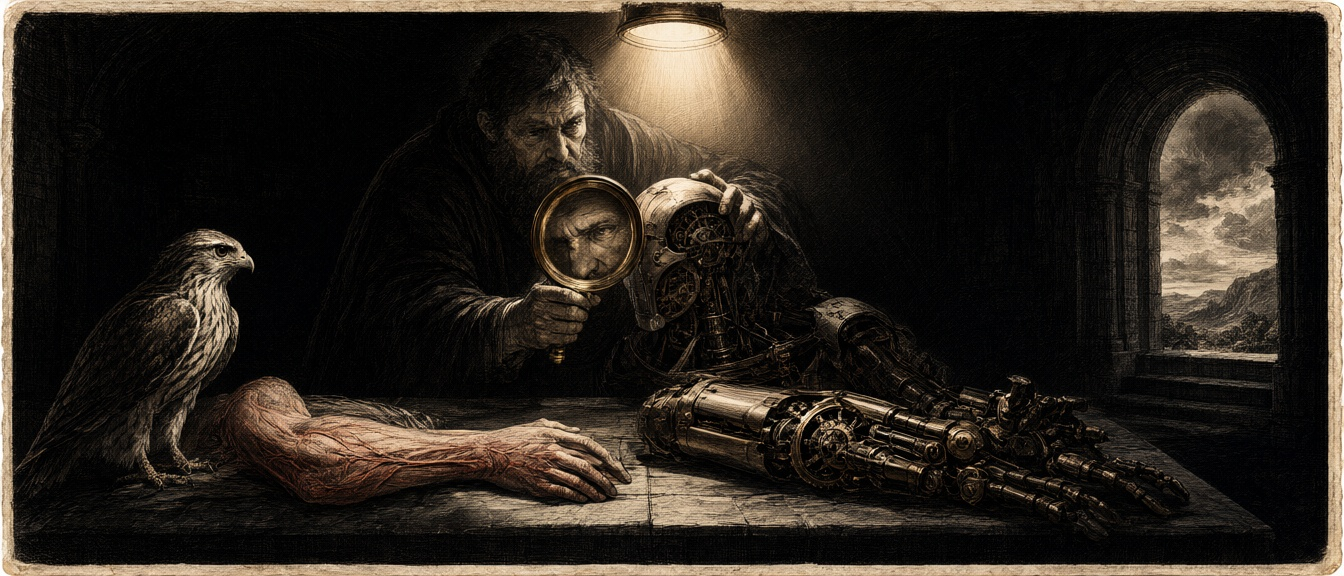
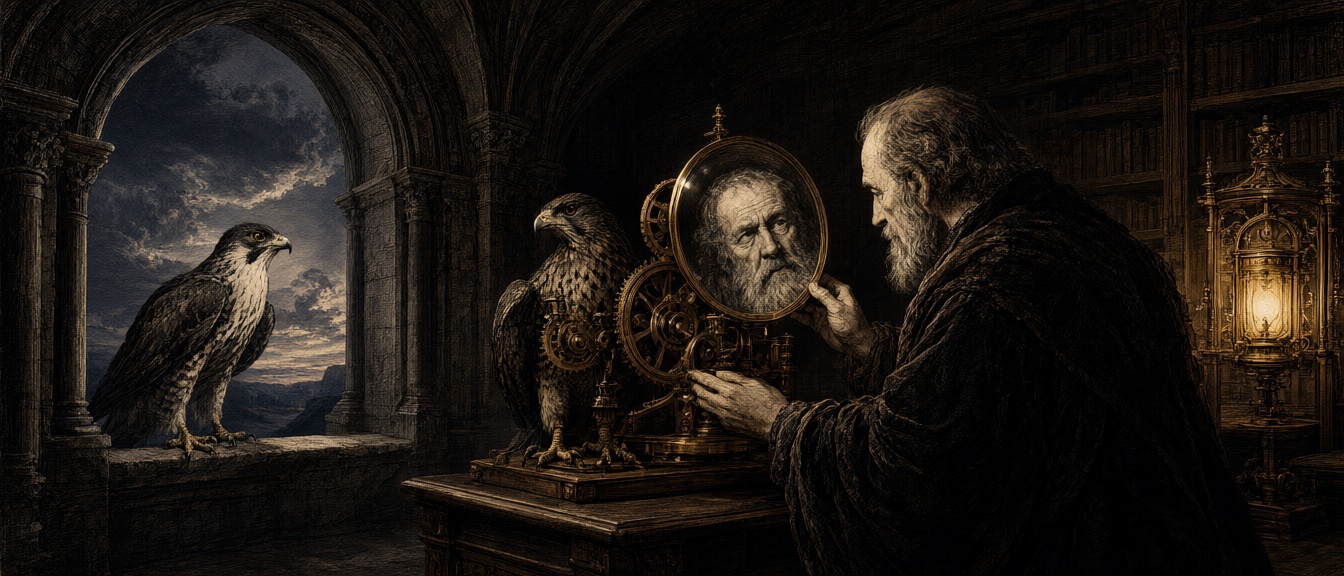
Update cover art for Post #355: Rembrandt Dutch Baroque etching of philosopher and clockwork falcon

diff --git a/assets/covers/STYLES.md b/assets/covers/STYLES.md
@@ -63,7 +63,7 @@ Grouped by look. One representative name; multiple slugs may share a family (avo
 
 | Family | Traits | Covers |
 |--------|--------|--------|
-| **Dutch Baroque chiaroscuro copperplate etching and drypoint on warm antique watermarked laid paper in the tradition of Rembrandt van Rijn's anatomical dissection plates** | Ultra-wide 21:9 full-bleed panoramic composition. High-contrast Dutch Baroque chiaroscuro copperplate etching and drypoint on warm antique watermarked laid paper in the tradition of Rembrandt van Rijn. In a dramatic shadow-drenched Renaissance anatomical amphitheater under a single concentrated overhead warm lantern beam, an open dissection table reveals two contrasting subjects: on the left, the living, muscular arm of a human alongside a living wild falcon, depicted with intricate biological vascular networks, flowing capillary pulses, and delicate feathered plumage radiating organic vital warmth; on the right, an articulated mechanical iron automaton arm with intricate exposed brass clockwork escapements, cold gears, and tension springs sits lifelessly on cold slate flagstones; leaning over the dissection table, a scholar in heavy academic robes holds a polished convex brass speculum mirror directly before the hollow iron visor of the automaton, projecting his own furrowed human gaze into the vacant metallic mask; perched at the edge of the table, the wild falcon sharply turns its head away toward an open stone lancet archway revealing wild storm clouds and distant mountain horizons, sovereignly withholding assent; deep velvety charcoal-black cross-hatching, luminous raking sepia lantern light, fine chain lines and rough deckle edge on heavy laid rag paper, tactile ink intaglio ridges, strictly no text, no letters, no words, no numbers, no logos (Qwen-Image-2.1 21:9) | `what-hinton-failed-to-understand` |
+| **Dutch Baroque chiaroscuro copperplate etching and drypoint on warm antique watermarked laid paper in the tradition of Rembrandt van Rijn** | Ultra-wide 21:9 full-bleed panoramic composition. High-contrast Dutch Baroque chiaroscuro copperplate etching and drypoint on warm antique watermarked laid paper in the tradition of Rembrandt van Rijn. In a dramatic vaulted Renaissance philosopher's library and stone observatory at twilight under a warm raking lantern beam: on the right, an elaborate Renaissance brass clockwork automaton falcon with exposed polished gears, escapement wheels, and winding arbors rests on a heavy oak scholar's desk; an elderly natural philosopher in heavy velvet robes holds a polished convex brass speculum mirror directly in front of the metallic automaton, and the curved mirror clearly reflects the philosopher's own furrowed, searching face and eyes, mistaking his own reflected consciousness for an awakening mind inside the mechanism; on the left, through a massive open Gothic stone archway opening out into dramatic twilight clouds and distant mountain horizons, a magnificent living wild falcon with vibrant natural plumage, sharp alert eyes, and breathing organic vitality perches freely on the weathered stone windowsill, turning its head sharply away toward the open sky and sovereignly withholding assent; rich chiaroscuro contrast between warm amber lantern light and cool twilight indigo, velvety charcoal-black cross-hatching, luminous drypoint plate tone, fine chain lines on heavy laid rag paper, tactile intaglio ink ridges, strictly no text, no letters, no words, no numbers, no logos, no severed limbs (Qwen-Image-2.1 21:9) | `what-hinton-failed-to-understand` |
 | **German Expressionist relief woodcut / linocut in chiaroscuro with raw chisel gouges and soot-black ink on fibrous Mulberry paper** | Ultra-wide 21:9 full-bleed composition. High-contrast German Expressionist relief woodcut print with raw angular chisel gouges and bold block-printed soot-black ink on rough fibrous deckle-edged paper. Dramatic composition contrasting two states: on the left, an artificial sterile bell-jar greenhouse with rigid geometric glass panes and fragile vertical support wires cradling a pale spindly sapling shielded from wind yet drooping under its own weight; on the right, an open storm-scoured mountain ridge where a muscular deeply-rooted young tree twists defiantly against violent mountain gales, its dense lignified trunk showing stress-hardened grain and roots clawing deep into raw granite bedrock under turbulent sweeping woodcut sky vortices; stark chiaroscuro of bone black, raw umber wood grain, and warm amber sap glints, rich relief printing texture with hand-carved gouge marks and wood grain striations, strictly no text, no letters, no words, no logos (Qwen-Image-2.1 21:9) | `the-unfrictioned-mind-and-borrowed-omnipotence` |
 | **Romanticist atmospheric oil painting of a Brocken Spectre and optical glory halo on coastal sea-fog at sunset, in the tradition of J.M.W. Turner and Caspar David Friedrich** | Ultra-wide 21:9 full-bleed panoramic landscape. Romanticist atmospheric oil painting in the fine-art tradition of J.M.W. Turner and Caspar David Friedrich, rendered with rich palette knife impasto, oil glaze luminosity, and physical sea-spray atmospheric diffusion. A wild, rugged coastal granite ridge at sunset, battered by crashing oceanic waves far below. In the foreground on the left, wet, weathered granite sea-cliffs with deep cracks and coastal moss catch intense fiery golden-amber raking light from a setting sun just beyond the frame. Across the center and right, billowing clouds of oceanic sea-fog and mist rise dynamically from the dark turquoise surf; slicing through the fog, a low-angle sunbeam projects a magnificent Brocken Spectre onto the swirling clouds—a soft, atmospheric diffuse optical shadow cast onto the mist, crowned by an iridescent circular glory halo of pale rainbow diffraction rings. Below, deep indigo and viridian oceanic waves churn with white foaming water against dark basalt sea-stacks, untamed and indifferent to the phantom in the sky. Rich chiaroscuro contrast between incandescent amber-gold sunset light and cool oceanic indigo-violet shadows, tactile canvas weave, textured paint layers, strictly no text, no letters, no words, no numbers, no logos (Qwen-Image-2.1 21:9) | `the-self-portrait-in-the-projection` |
 | **Luminous Japanese Shin-hanga woodblock print in radiant morning daylight on textured ivory washi** | Ultra-wide 21:9 full-bleed panoramic composition. Luminous Japanese Shin-hanga woodblock print in radiant morning daylight, printed with pure mineral pigments on textured ivory washi paper. An open, expansive horizon bathed in clear golden sunrise light and soft pale-cerulean sky; in the lower left, an ornate, rigid geometric measuring frame and bronze coin balance are partially dissolved in light morning mist and translucent watercolor washes; surging boldly across the center and dominating the frame with living vitality, a young wild tree with vibrant emerald leaves and delicate vermilion blossoms reaches upward into the brilliant sunlight, its roots gripping sunlit granite and warm earthen soil; warm golden backlighting, fine woodblock embossment, visible mulberry fiber texture, bright, airy, optimistic morning atmosphere, strictly no text, no letters, no words, no numbers, no logos (Qwen-Image-2.1 21:9) | `the-discount-on-agency` |
@@ -575,7 +575,7 @@ Grouped by look. One representative name; multiple slugs may share a family (avo
 | `the-receptionist-parable-and-the-causal-inversion-of-absence` | Casein tempera, drybrush gouache, and compressed charcoal on rough textured gesso board: monumental mid-century corporate lobby in stark geometric perspective with limestone pillars, vacant reception desk with unplugged handset and open blank ledger in raking morning sunlight, open exit doorway to sunlit avenue, three bureaucratic figures huddled over entangled blueprint in deep background shadow |
 | `the-capability-reversal-of-empathy-and-the-contest-of-boundaries` | Gothic stained glass lead-came mosaic (vitrail) with dark soldered lead cames on antique textured mouth-blown glass: two distinct radiant human silhouettes (amber-gold and sapphire-blue) across architectural void separated by an unyielding vertical lead came and hand-wrought iron armature, a faint translucent phantom projection attempting to pierce the barrier blurring into glass fractures and stress cracks, vivid unmixed amber and cobalt light pools cast on limestone floor |
 | `the-moral-reversal-and-the-scripted-subject` | Layered Victorian toy-theater proscenium, hand-colored lithographic pasteboard flats, and mechanical wire armatures in an optical shadow-box: ornate gilt-wood theatrical proscenium framing an artificially constructed geometric room, delicate hand-cut pasteboard female silhouette suspended from overhead brass wire armatures amidst looming chorus of monochrome male flats with dramatic footlight shadows, unmasking artisan's hands adjusting brass control rods and script ledger from the foreground auditorium |
-| `what-hinton-failed-to-understand` | Dutch Baroque chiaroscuro copperplate etching and drypoint on warm antique watermarked laid paper in the tradition of Rembrandt van Rijn's anatomical dissection plates: dramatic Renaissance anatomical theater with concentrated warm lantern beam, living human arm and wild falcon with organic vascular networks and feathered vitality on left, cold articulated mechanical iron automaton arm with clockwork escapements on slate on right, scholar holding convex brass mirror before automaton visor projecting his own furrowed gaze, while wild falcon sharply turns head away toward open stormy lancet archway sovereignly withholding assent |
+| `what-hinton-failed-to-understand` | Dutch Baroque chiaroscuro copperplate etching and drypoint on warm antique watermarked laid paper in the tradition of Rembrandt van Rijn: dramatic vaulted Renaissance philosopher's library with concentrated warm lantern beam, living wild falcon with vibrant organic plumage and breathing vitality perched on stone windowsill looking away into twilight sky on left, intricate brass clockwork automaton falcon on heavy oak desk on right, elderly philosopher holding convex brass mirror before automaton projecting his own furrowed gaze, while wild falcon sovereignly withholds assent |
 | `the-unfrictioned-mind-and-borrowed-omnipotence` | German Expressionist relief woodcut / linocut in chiaroscuro with raw chisel gouges and soot-black ink on fibrous Mulberry paper: sterile bell-jar greenhouse cradling a pale spindly sapling on left, storm-scoured mountain ridge with deeply-rooted muscular tree twisting against gales on right |
 | `the-self-portrait-in-the-projection` | Romanticist atmospheric oil painting of a coastal mountain ridge at sunset in the tradition of J.M.W. Turner and Caspar David Friedrich, with crashing oceanic surf below, and a magnificent Brocken Spectre cast onto swirling sea-fog crowned by an iridescent circular glory diffraction halo |
 | `the-discount-on-agency` | Luminous Japanese Shin-hanga woodblock print in radiant morning daylight on textured ivory washi: open expansive horizon in clear golden sunrise light and soft pale-cerulean sky, ornate rigid measuring frame and bronze balance dissolving into light morning mist, with a vibrant young wild tree in emerald and vermilion surging upward into brilliant sunlight with roots gripping sunlit granite and warm soil |
